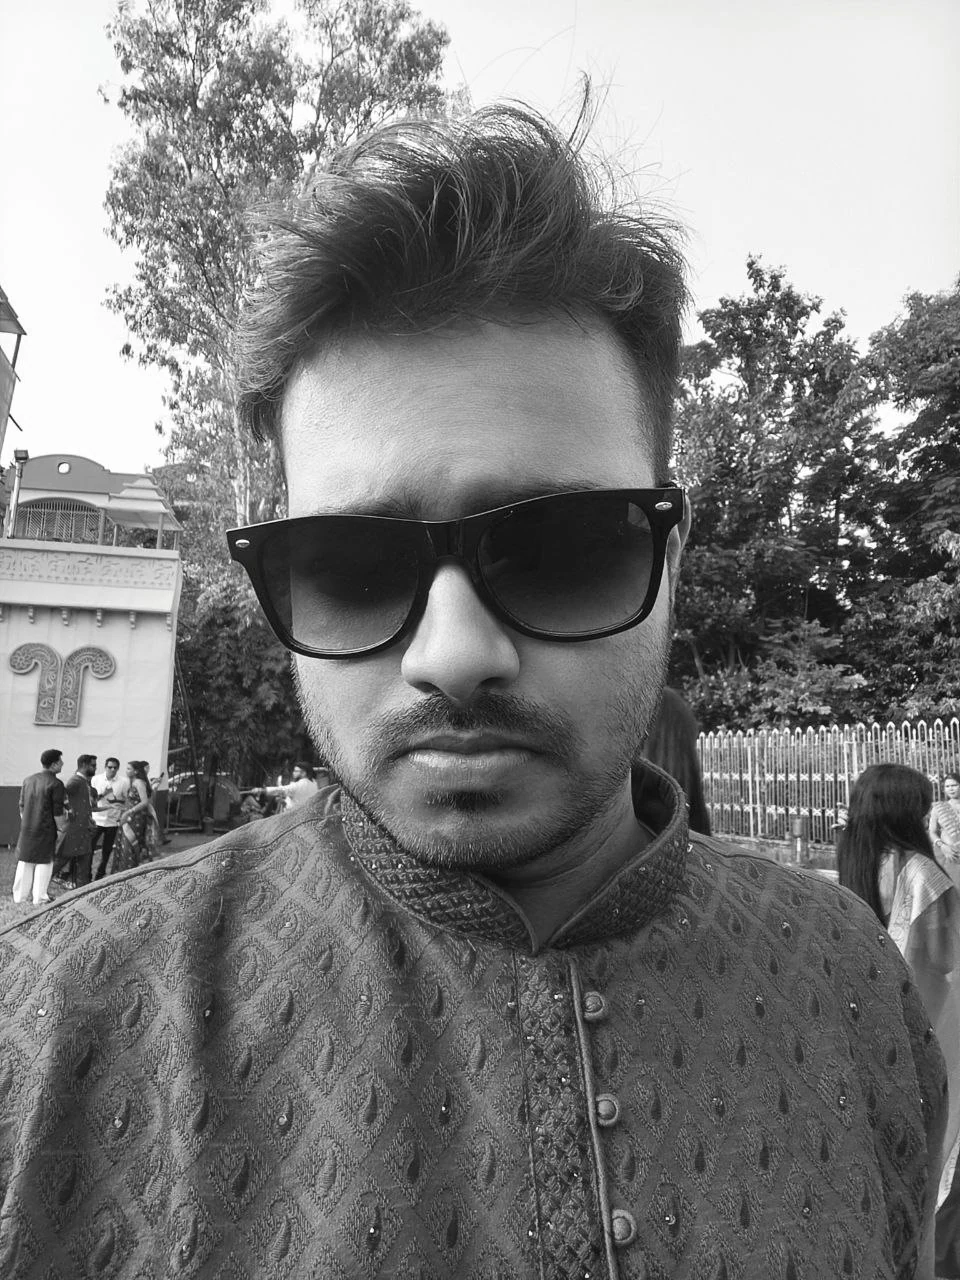
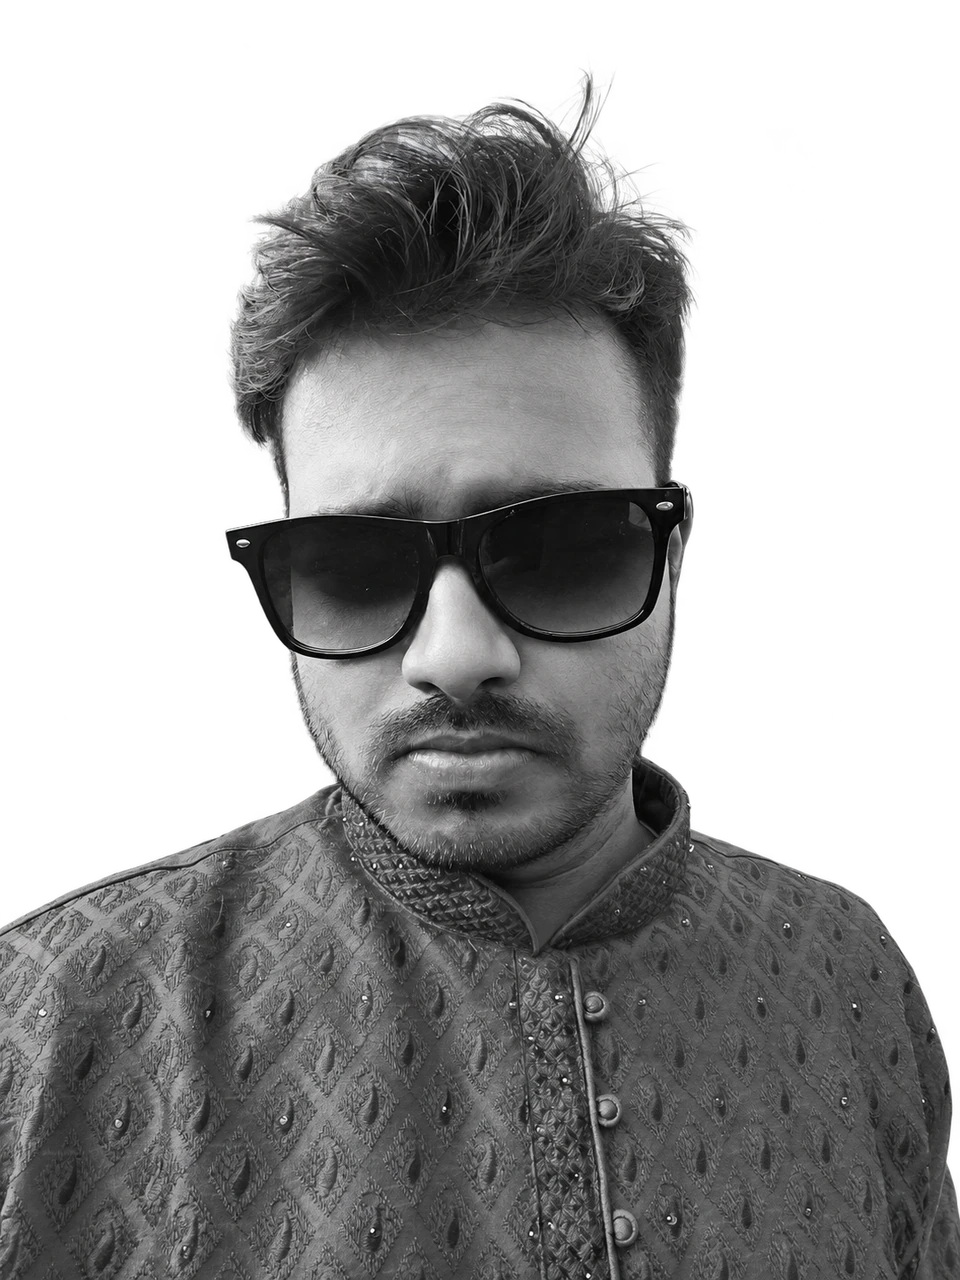
Use background-removed portrait on a black profile backdrop

diff --git a/styles.css b/styles.css
@@ -26,3 +26,7 @@ body{font-size:16px;line-height:1.8}.container{width:min(1240px,calc(100% - 96px
 /* Keep important labels readable at every width. */
 .brand-wordmark strong{font-size:13px}.hero .availability{font-size:11px;letter-spacing:.55px}.hero .availability .status-dot{align-self:flex-start;margin-top:6px}@media(max-width:900px){.hero .availability{font-size:10px}}@media(max-width:640px){.hero .availability{font-size:10px;line-height:1.8;letter-spacing:.55px}.brand-wordmark strong{font-size:12px}}@media(max-width:370px){.hero .availability{font-size:9px}.brand-wordmark strong{font-size:11px}}
 @media(min-width:641px) and (max-width:800px){.hero-description{font-size:14px}.hero-statement{font-size:20px}.hero-statement>span{font-size:16px}.hero-buttons .button{font-size:11px}.hero-role{font-size:11px}}
+
+/* Display the transparent profile portrait against pure black in both themes. */
+.portrait-card,.brand-avatar{background:#000}
+.portrait-overlay{background:linear-gradient(180deg,transparent 35%,transparent 50%,#000a 85%,#000e 100%)}
